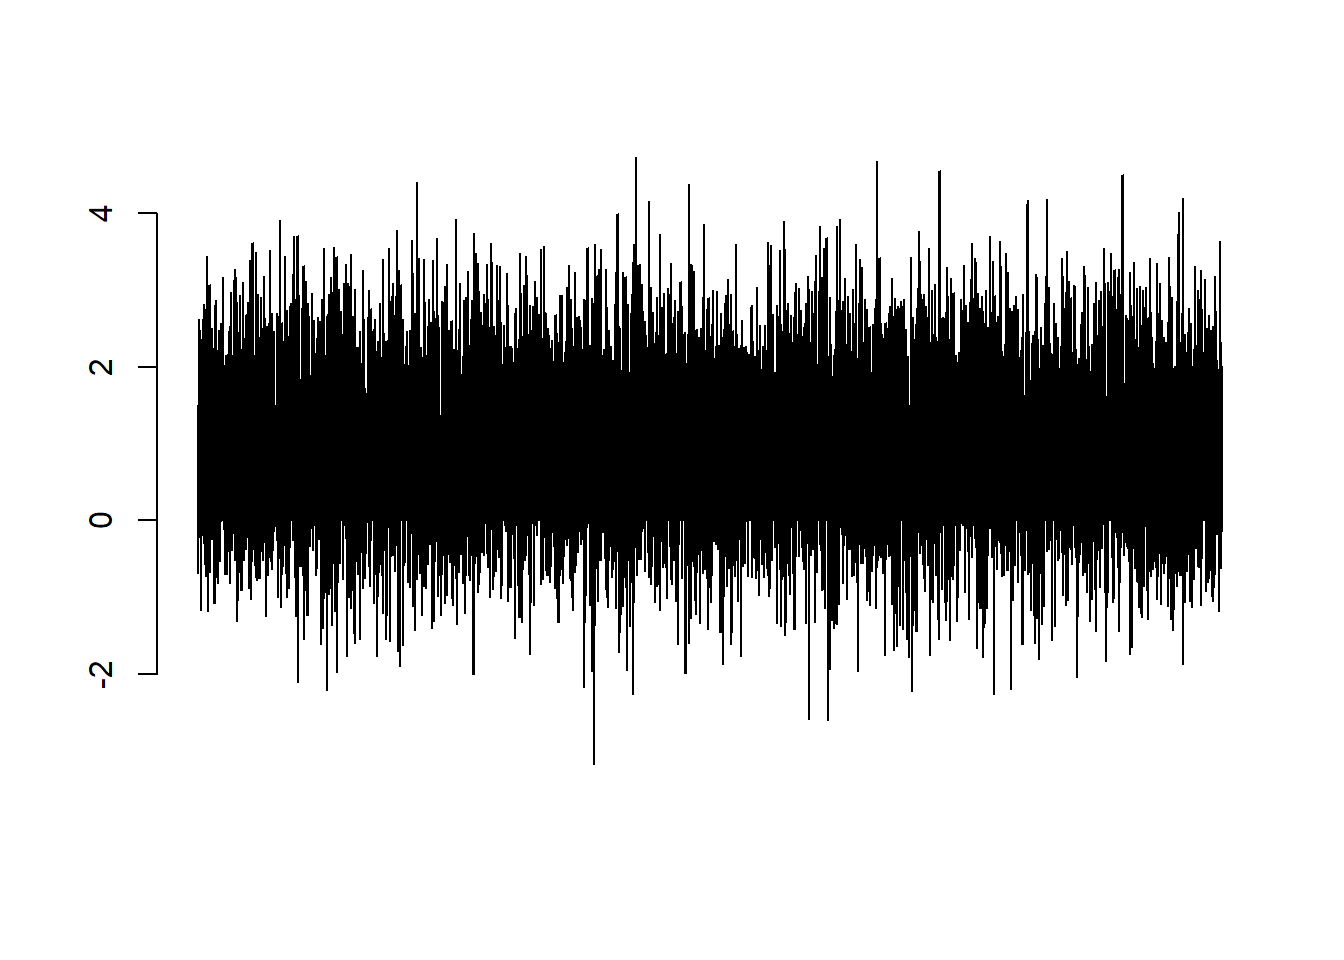
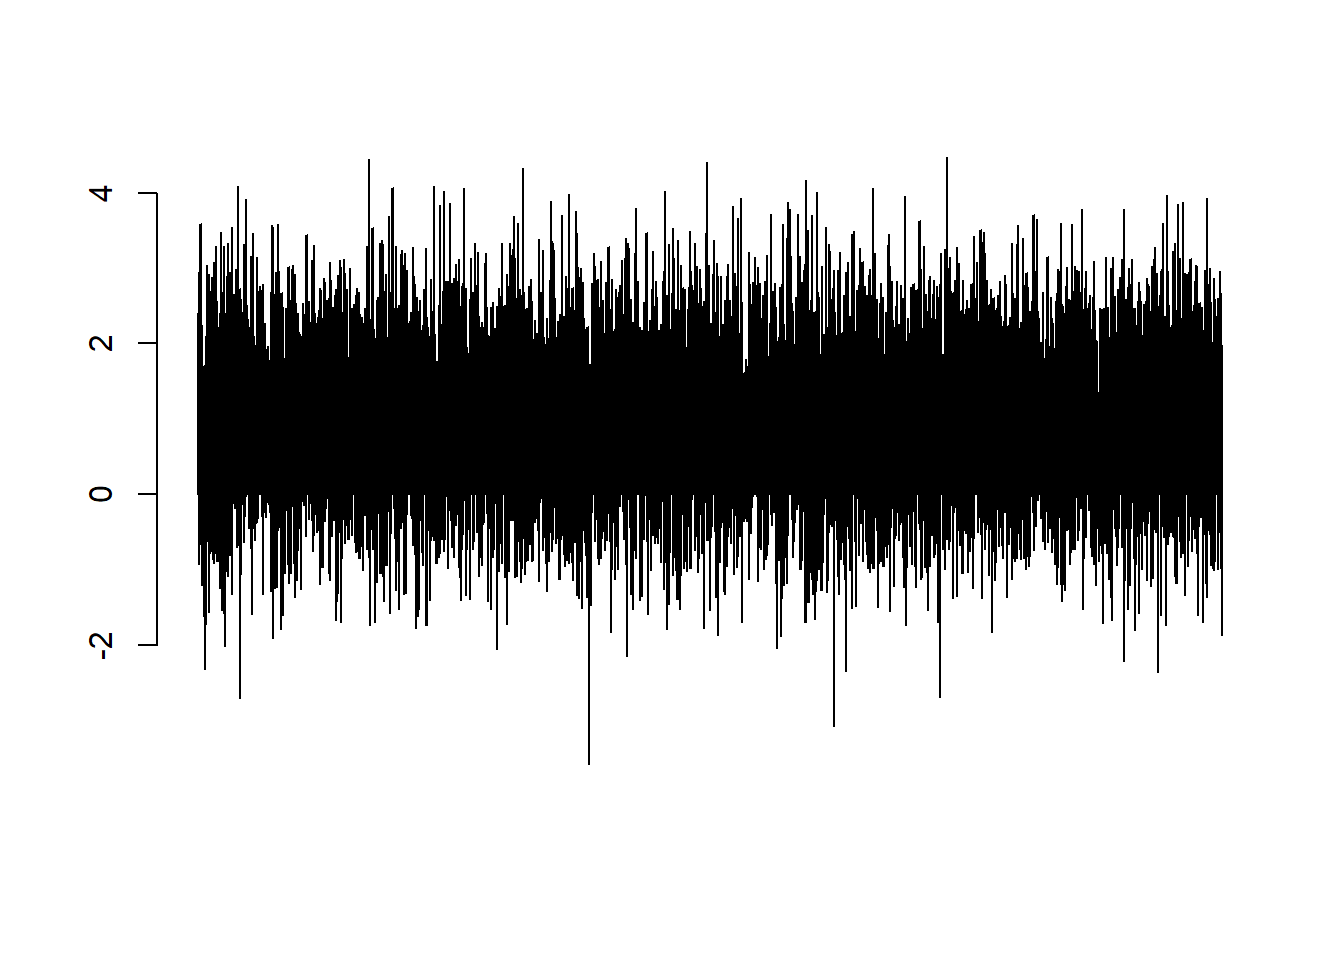
vxcv

diff --git a/content/post/2019-05-10-comando-basicos-r.html b/content/post/2019-05-10-comando-basicos-r.html
@@ -32,19 +32,19 @@ image:
 <li><a href="#armazenando-dados-em-objeto">Armazenando dados em objeto</a></li>
 <li><a href="#concatenando-diversos-valores-e-armazenando-os-em-um-objeto">Concatenando diversos valores e armazenando-os em um objeto</a></li>
 <li><a href="#extraindo-um-ou-mais-valores-de-um-objeto-a-partir-da-indexacao">Extraindo um ou mais valores de um objeto a partir da indexação</a></li>
-<li><a href="#principais-tipos-de-objetos">PRINCIPAIS <strong>TIPOS</strong> DE OBJETOS</a><ul>
-<li><a href="#vetor">vetor</a></li>
-<li><a href="#matriz">matriz</a></li>
-<li><a href="#dataframe">dataframe</a></li>
-<li><a href="#array">array</a></li>
-<li><a href="#list">list</a></li>
-</ul></li>
 <li><a href="#principais-classes-de-objetos">PRINCIPAIS <strong>CLASSES</strong> DE OBJETOS</a><ul>
 <li><a href="#numerical">numerical</a></li>
 <li><a href="#character">character</a></li>
 <li><a href="#logical">logical</a></li>
 <li><a href="#factor">factor</a></li>
 <li><a href="#function">function</a></li>
+</ul></li>
+<li><a href="#principais-tipos-de-objetos">PRINCIPAIS <strong>TIPOS</strong> DE OBJETOS</a><ul>
+<li><a href="#vetor">vetor</a></li>
+<li><a href="#matriz">matriz</a></li>
+<li><a href="#dataframe">dataframe</a></li>
+<li><a href="#array">array</a></li>
+<li><a href="#list">list</a></li>
 </ul></li>
 </ul></li>
 <li><a href="#operadores-de-logica">Operadores de lógica</a><ul>
@@ -247,7 +247,7 @@ Auckland, ajudaram Ross Ihaka a desenvolver a versão para Macintosh.</p>
 ## cite it when using it for data analysis. See also
 ## &#39;citation(&quot;pkgname&quot;)&#39; for citing R packages.</code></pre>
 <pre class="r"><code>Sys.time()                  # obtém data e hora exata do sistema</code></pre>
-<pre><code>## [1] &quot;2019-05-17 17:59:48 -03&quot;</code></pre>
+<pre><code>## [1] &quot;2019-05-18 00:09:22 -03&quot;</code></pre>
 </div>
 <div id="operadores-simples-e-funcoes-matematicas" class="section level2">
 <h2>Operadores simples e funções matemáticas</h2>
@@ -397,6 +397,68 @@ w</code></pre>
 <pre><code>## [1] 4 7</code></pre>
 <hr />
 </div>
+<div id="principais-classes-de-objetos" class="section level2">
+<h2>PRINCIPAIS <strong>CLASSES</strong> DE OBJETOS</h2>
+<p>A função <code>class()</code> revela qual a classe do objeto.</p>
+<div id="numerical" class="section level3">
+<h3>numerical</h3>
+<pre class="r"><code>x &lt;- c(13, 15, 346, 58, 23)
+x</code></pre>
+<pre><code>## [1]  13  15 346  58  23</code></pre>
+<pre class="r"><code>class(x)</code></pre>
+<pre><code>## [1] &quot;numeric&quot;</code></pre>
+</div>
+<div id="character" class="section level3">
+<h3>character</h3>
+<p>Cadeias de caracters (ou <em>string</em> em inglês) são apresentados entre aspas.</p>
+<pre class="r"><code>x &lt;- c(&quot;R&quot;, &quot;plantas&quot;, &quot;animais&quot;, &quot;floresta&quot;, &quot;solo&quot;)
+x</code></pre>
+<pre><code>## [1] &quot;R&quot;        &quot;plantas&quot;  &quot;animais&quot;  &quot;floresta&quot; &quot;solo&quot;</code></pre>
+<pre class="r"><code>class(x)</code></pre>
+<pre><code>## [1] &quot;character&quot;</code></pre>
+</div>
+<div id="logical" class="section level3">
+<h3>logical</h3>
+<pre class="r"><code>TRUE</code></pre>
+<pre><code>## [1] TRUE</code></pre>
+<pre class="r"><code>FALSE</code></pre>
+<pre><code>## [1] FALSE</code></pre>
+<pre class="r"><code>TRUE | FALSE     # logical &#39;ou&#39;= |</code></pre>
+<pre><code>## [1] TRUE</code></pre>
+<pre class="r"><code>TRUE &amp; FALSE     # logical &#39;e&#39; = &amp;</code></pre>
+<pre><code>## [1] FALSE</code></pre>
+<pre class="r"><code>!TRUE            # logical &#39;não&#39; = !</code></pre>
+<pre><code>## [1] FALSE</code></pre>
+<pre class="r"><code>!FALSE</code></pre>
+<pre><code>## [1] TRUE</code></pre>
+<pre class="r"><code>x &lt;- c(TRUE, FALSE, TRUE, TRUE, FALSE)
+x</code></pre>
+<pre><code>## [1]  TRUE FALSE  TRUE  TRUE FALSE</code></pre>
+<pre class="r"><code>class(x)</code></pre>
+<pre><code>## [1] &quot;logical&quot;</code></pre>
+</div>
+<div id="factor" class="section level3">
+<h3>factor</h3>
+<pre class="r"><code>cores &lt;- factor(c(1,0,2,1,0,2,0,0,1,2), levels = c(0, 1, 2),
+              labels = c(&quot;verde&quot;, &quot;azul&quot;, &quot;vermelho&quot;))
+cores</code></pre>
+<pre><code>##  [1] azul     verde    vermelho azul     verde    vermelho verde   
+##  [8] verde    azul     vermelho
+## Levels: verde azul vermelho</code></pre>
+<pre class="r"><code>class(cores)</code></pre>
+<pre><code>## [1] &quot;factor&quot;</code></pre>
+</div>
+<div id="function" class="section level3">
+<h3>function</h3>
+<pre class="r"><code>class(R.Version)</code></pre>
+<pre><code>## [1] &quot;function&quot;</code></pre>
+<pre class="r"><code>class(license)</code></pre>
+<pre><code>## [1] &quot;function&quot;</code></pre>
+<pre class="r"><code>class(class)</code></pre>
+<pre><code>## [1] &quot;function&quot;</code></pre>
+<hr />
+</div>
+</div>
 <div id="principais-tipos-de-objetos" class="section level2">
 <h2>PRINCIPAIS <strong>TIPOS</strong> DE OBJETOS</h2>
 <div id="vetor" class="section level3">
@@ -502,67 +564,6 @@ w</code></pre>
 <pre><code>## [1] FALSE</code></pre>
 <pre class="r"><code>is.list(w)</code></pre>
 <pre><code>## [1] TRUE</code></pre>
-</div>
-</div>
-<div id="principais-classes-de-objetos" class="section level2">
-<h2>PRINCIPAIS <strong>CLASSES</strong> DE OBJETOS</h2>
-<p>A função <code>class()</code> revela qual a classe do objeto.</p>
-<div id="numerical" class="section level3">
-<h3>numerical</h3>
-<pre class="r"><code>x &lt;- c(13, 15, 346, 58, 23)
-x</code></pre>
-<pre><code>## [1]  13  15 346  58  23</code></pre>
-<pre class="r"><code>class(x)</code></pre>
-<pre><code>## [1] &quot;numeric&quot;</code></pre>
-</div>
-<div id="character" class="section level3">
-<h3>character</h3>
-<p>Cadeias de caracters (ou <em>string</em> em inglês) são apresentados entre aspas.</p>
-<pre class="r"><code>x &lt;- c(&quot;R&quot;, &quot;plantas&quot;, &quot;animais&quot;, &quot;floresta&quot;, &quot;solo&quot;)
-x</code></pre>
-<pre><code>## [1] &quot;R&quot;        &quot;plantas&quot;  &quot;animais&quot;  &quot;floresta&quot; &quot;solo&quot;</code></pre>
-<pre class="r"><code>class(x)</code></pre>
-<pre><code>## [1] &quot;character&quot;</code></pre>
-</div>
-<div id="logical" class="section level3">
-<h3>logical</h3>
-<pre class="r"><code>TRUE</code></pre>
-<pre><code>## [1] TRUE</code></pre>
-<pre class="r"><code>FALSE</code></pre>
-<pre><code>## [1] FALSE</code></pre>
-<pre class="r"><code>TRUE | FALSE     # logical &#39;ou&#39;= |</code></pre>
-<pre><code>## [1] TRUE</code></pre>
-<pre class="r"><code>TRUE &amp; FALSE     # logical &#39;e&#39; = &amp;</code></pre>
-<pre><code>## [1] FALSE</code></pre>
-<pre class="r"><code>!TRUE            # logical &#39;não&#39; = !</code></pre>
-<pre><code>## [1] FALSE</code></pre>
-<pre class="r"><code>!FALSE</code></pre>
-<pre><code>## [1] TRUE</code></pre>
-<pre class="r"><code>x &lt;- c(TRUE, FALSE, TRUE, TRUE, FALSE)
-x</code></pre>
-<pre><code>## [1]  TRUE FALSE  TRUE  TRUE FALSE</code></pre>
-<pre class="r"><code>class(x)</code></pre>
-<pre><code>## [1] &quot;logical&quot;</code></pre>
-</div>
-<div id="factor" class="section level3">
-<h3>factor</h3>
-<pre class="r"><code>cores &lt;- factor(c(1,0,2,1,0,2,0,0,1,2), levels = c(0, 1, 2),
-              labels = c(&quot;verde&quot;, &quot;azul&quot;, &quot;vermelho&quot;))
-cores</code></pre>
-<pre><code>##  [1] azul     verde    vermelho azul     verde    vermelho verde   
-##  [8] verde    azul     vermelho
-## Levels: verde azul vermelho</code></pre>
-<pre class="r"><code>class(cores)</code></pre>
-<pre><code>## [1] &quot;factor&quot;</code></pre>
-</div>
-<div id="function" class="section level3">
-<h3>function</h3>
-<pre class="r"><code>class(R.Version)</code></pre>
-<pre><code>## [1] &quot;function&quot;</code></pre>
-<pre class="r"><code>class(license)</code></pre>
-<pre><code>## [1] &quot;function&quot;</code></pre>
-<pre class="r"><code>class(class)</code></pre>
-<pre><code>## [1] &quot;function&quot;</code></pre>
 <hr />
 </div>
 </div>
@@ -580,7 +581,7 @@ a</code></pre>
 <pre class="r"><code>a &lt; 5</code></pre>
 <pre><code>##  [1]  TRUE  TRUE  TRUE  TRUE FALSE FALSE FALSE FALSE FALSE FALSE</code></pre>
 <pre class="r"><code>a &gt; 8 | x &lt; 5</code></pre>
-<pre><code>##  [1] TRUE TRUE TRUE TRUE TRUE TRUE TRUE TRUE TRUE TRUE</code></pre>
+<pre><code>##  [1] FALSE FALSE FALSE  TRUE  TRUE FALSE FALSE FALSE  TRUE  TRUE</code></pre>
 <pre class="r"><code>a[c(T,T,T,T,F,F,F,F,T,T)]</code></pre>
 <pre><code>## [1]  1  2  3  4  9 10</code></pre>
 <div id="funcoes-if-e-else" class="section level2">
@@ -593,7 +594,7 @@ x &lt;- 1
 if(x == 1) {
   Sys.time()
 }</code></pre>
-<pre><code>## [1] &quot;2019-05-17 17:59:49 -03&quot;</code></pre>
+<pre><code>## [1] &quot;2019-05-18 00:09:24 -03&quot;</code></pre>
 <pre class="r"><code>if(x &lt; 0) {
   sinal &lt;- &quot;negativo&quot;
 } else if(x == 0) {
@@ -622,49 +623,46 @@ soma</code></pre>
 <div id="gerando-numeros-aleatorios-e-amostragem" class="section level1">
 <h1>Gerando números aleatórios e amostragem</h1>
 <pre class="r"><code>runif(100)        # Gera números aleatórios entre 0 e 1 com distribuição uniforme</code></pre>
-<pre><code>##   [1] 0.496360919 0.460517919 0.810215905 0.327876053 0.343150636
-##   [6] 0.720966254 0.868632799 0.116383421 0.229154521 0.982036105
-##  [11] 0.241374299 0.206217034 0.633960899 0.562880186 0.539847748
-##  [16] 0.286148014 0.864456962 0.519425497 0.790715367 0.824220042
-##  [21] 0.971036003 0.818160805 0.733558723 0.134734213 0.246665683
-##  [26] 0.043314810 0.819610327 0.042603371 0.352176738 0.022108949
-##  [31] 0.281951636 0.340356296 0.991742756 0.525393913 0.435432805
-##  [36] 0.541058667 0.720315601 0.825553656 0.869856146 0.028632557
-##  [41] 0.074335565 0.274565835 0.554906768 0.229693144 0.280945382
-##  [46] 0.855239674 0.557151933 0.327595189 0.023467137 0.496917778
-##  [51] 0.545589877 0.363863801 0.153532848 0.374667757 0.423006912
-##  [56] 0.986558682 0.960806147 0.435827198 0.355188866 0.920199716
-##  [61] 0.055962986 0.148926658 0.925492912 0.330702526 0.202776410
-##  [66] 0.006405590 0.201115440 0.289670755 0.808559398 0.341397950
-##  [71] 0.378245531 0.663941022 0.853296418 0.642147153 0.181156026
-##  [76] 0.942062094 0.127360768 0.898980125 0.881033337 0.775934454
-##  [81] 0.448355141 0.039681937 0.989938045 0.832459292 0.583933506
-##  [86] 0.290309545 0.531676389 0.024603882 0.371441785 0.379142521
-##  [91] 0.809202392 0.958014805 0.396448755 0.577520613 0.003386277
-##  [96] 0.705493333 0.270964846 0.154595056 0.190589844 0.983915310</code></pre>
+<pre><code>##   [1] 0.18190052 0.48998785 0.75228946 0.88883788 0.96481233 0.63128991
+##   [7] 0.88797334 0.26190672 0.25533355 0.70778667 0.36011364 0.55286461
+##  [13] 0.18792335 0.66566128 0.50340926 0.98471844 0.51470917 0.96262681
+##  [19] 0.54480367 0.38369671 0.03917104 0.89038703 0.48696837 0.48097953
+##  [25] 0.89083697 0.08612113 0.13736043 0.67096380 0.93888996 0.53150238
+##  [31] 0.97156382 0.84518573 0.93820736 0.73484811 0.93430936 0.49277499
+##  [37] 0.63184005 0.18834800 0.51656321 0.87925234 0.82888705 0.61046017
+##  [43] 0.48331851 0.17788561 0.68072499 0.77001185 0.24372252 0.83570790
+##  [49] 0.86432616 0.21046078 0.57175158 0.49473924 0.05735721 0.97838099
+##  [55] 0.04301390 0.78704052 0.01779046 0.09602576 0.94192690 0.39162560
+##  [61] 0.14423823 0.51027423 0.08339995 0.73026392 0.64297670 0.32584874
+##  [67] 0.28859376 0.22465201 0.99613677 0.90922659 0.29939518 0.01701786
+##  [73] 0.28821463 0.98347762 0.26257039 0.42571100 0.28455021 0.31609291
+##  [79] 0.27987285 0.07942052 0.62292625 0.42403694 0.12782557 0.93804251
+##  [85] 0.70425965 0.19407422 0.80191833 0.48531850 0.40028371 0.78693808
+##  [91] 0.09124816 0.33774190 0.84164034 0.67946552 0.21173093 0.10985642
+##  [97] 0.70536822 0.66522795 0.73541139 0.88445008</code></pre>
 <pre class="r"><code>rnorm(100)        # Gera números aleatórios com distribuição normal</code></pre>
-<pre><code>##   [1] -2.066116309 -1.411782782 -0.731780774  1.219586980  0.361770407
-##   [6]  0.346185328  0.244826472  0.194998018  0.181444794 -1.102232467
-##  [11] -0.018894293  0.087704991 -0.526244995 -0.962411555  0.221335888
-##  [16] -1.725866754  1.021795416  0.479750053 -0.329275778  2.272098874
-##  [21]  0.794355894  0.199829025 -1.013101100  1.135839777  1.816558959
-##  [26] -1.405505188 -0.495974013 -0.652337722 -0.090632016 -0.183997881
-##  [31] -0.880506594 -1.003112771 -2.861673781 -0.309744183 -0.571192523
-##  [36]  0.575262531  0.870186600 -1.375677412  1.057431323 -0.377272953
-##  [41]  2.361581122  1.104678431 -0.677001292 -2.242197969 -0.099231119
-##  [46] -0.490693199 -1.232614772 -1.332411887 -0.593975936  0.927845188
-##  [51]  1.551557561 -0.369907688  1.879367443  1.578133338 -0.610727371
-##  [56]  1.466790628 -1.288009655 -0.827887209 -0.605134968  1.968389174
-##  [61] -0.777925876  1.191782184 -0.395422962 -0.835153533  1.622409319
-##  [66] -0.285652040  1.105663238 -1.309052995 -1.346594868  1.363567822
-##  [71]  1.600933931 -0.116475181  0.751118946 -0.004177326  1.492410540
-##  [76]  0.061569880 -1.942329069  0.135258729 -1.537688170  0.539367957
-##  [81] -2.298939335  0.124257326  1.842414887 -0.623052291 -0.152124414
-##  [86]  0.324286788  0.174339714  2.344055242 -0.122392921  1.441454095
-##  [91]  0.799446135 -0.858858979  0.897764937 -1.030989290 -0.390699099
-##  [96]  0.302991719  0.571046965  0.946051448 -0.435977597  0.663414657</code></pre>
+<pre><code>##   [1]  0.353849928  0.349943807 -0.677062154  1.162814804  0.255713446
+##   [6]  0.040214667 -0.743479218  0.143424917 -1.291849264 -0.203597971
+##  [11] -0.508375424  0.582867195  0.646963754  1.023220094 -0.663890357
+##  [16] -0.868194569 -0.083458231  0.547130299  0.274285930  0.418731023
+##  [21]  1.316188334  0.439013484  0.674807576 -0.586013332 -0.476156588
+##  [26] -0.100560995 -1.698921793 -1.173074815  0.629513784 -0.308760082
+##  [31]  1.910733145 -0.684123117 -0.009654509 -0.381590743 -0.061036522
+##  [36]  0.809428884  1.014170541 -1.670102593  1.787779901  1.128705945
+##  [41] -0.113582564  0.386959778 -0.351697386  1.514534417  1.038204245
+##  [46] -0.879908380 -0.532064114 -0.635325729  0.975415686  0.959422931
+##  [51]  0.473330322 -0.951016442 -0.219084455  1.129823790  0.272338566
+##  [56] -0.786726098  0.005335635 -1.487484715  0.210490124  0.732839056
+##  [61] -0.065927280  0.519914002 -0.272020028 -0.021009375 -0.414524000
+##  [66] -1.306580504 -1.179819567  0.305421673 -0.191151924 -0.937785652
+##  [71]  2.201375237 -0.306864193  1.185104256  0.424338911 -2.076475003
+##  [76] -1.485961922  0.404622068  0.027190981  0.261761177 -1.289372964
+##  [81] -0.302410844 -0.165579490 -1.332006822  1.448884687 -2.410570454
+##  [86]  0.203751556 -0.699082692 -0.860894834  1.207417014  0.318495818
+##  [91]  0.904784400 -1.051755844  0.778623898  0.431543381 -1.483726430
+##  [96]  1.992418692 -0.958803635  3.039286388  0.619813949 -1.925285880</code></pre>
 <pre class="r"><code>sample(1:100, 4)  # Amostragem</code></pre>
-<pre><code>## [1] 39 20 77 88</code></pre>
+<pre><code>## [1] 81 10 70 71</code></pre>
 </div>
 <div id="graficos-de-analise-descritiva" class="section level1">
 <h1>Gráficos de Análise Descritiva</h1>
